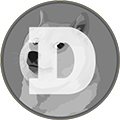
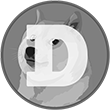
layout changes

diff --git a/css/style.css b/css/style.css
@@ -67,12 +67,19 @@ table { border-collapse: collapse; border-spacing: 0; }
 .bg { min-width: 100%; min-height: 100%; }
 .bg img { display: block; width: 100%; height: 100%; }
 
+/* ==========================================================================
+	#Intro
+========================================================================== */
+.intro { position: relative; z-index: 3; text-align: center; }
+
+.logo { overflow: hidden; display: inline-block; width: 324px; height: 150px; margin-top: 150px; background: url(images/logo.png) 0 0 no-repeat; white-space: nowrap; text-indent: 100%; }
+
+.slogan { padding-top: 80px; font-size: 24px; line-height: 1px; color: #ccc; }
+
 /* =========================================================================
 	#Header
 ========================================================================= */
 .header { overflow: hidden; }
-
-.logo { position: relative; z-index: 3; overflow: hidden; display: block; float: left; width: 86px; height: 40px; margin: 10px 0 0 10px; background: url(images/logo.png) 0 0 no-repeat; white-space: nowrap; text-indent: 100%; }
 
 /* =========================================================================
 	#Main
@@ -91,63 +98,51 @@ table { border-collapse: collapse; border-spacing: 0; }
 ========================================================================== */
 .circles {
 	position: absolute; 
-	top: 50%; 
+	top: 60%; 
 	left: 50%;
 	z-index: 2; 
 	overflow: hidden; 
-	width: 630px; 
-	height: 190px; 
+	width: 790px; 
+	height: 150px; 
 	padding: 20px 0 0 20px; 
-	margin-top: -180px; 
-	margin-left: -310px; 
+	/*margin-top: -55px; */
+	margin-left: -395px; 
 }
 
 .circle {
+	overflow: hidden; 
 	display: block; 
 	float: left;
-	overflow: hidden; 
-	border-radius: 50%; 
-	white-space: nowrap; 
-	text-indent: 100%;  
+	width: 110px; 
+	height: 110px; 
+	border-radius: 50%;
+ 	white-space: nowrap; 
+	text-indent: 100%; 
 }
 
 .circle:hover {
-	box-shadow: 0 0 20px #fff; 
+	/*box-shadow: 0 0 20px #fff; */
+	transition: all 0.5s;
+	transform: rotate(360deg);
 }
 
 .circle + .circle {
-	margin-left: 5px; 
+	margin-left: 50px; 
 }
 
-.circle-doge,
-.circle-ltc { margin-top: 15px; }
-
-.circle-drk,
-.circle-bc { margin-top: 30px; }
-
 .circle-btc {
-	width: 150px; 
-	height: 150px; 
 	background: url(images/btc2.png) 0 0 no-repeat;  
 }
 .circle-doge {
-	width: 120px; 
-	height: 120px; 
 	background: url(images/dgc2.png) 0 0 no-repeat; 
 }
 .circle-ltc {
-	width: 120px; 
-	height: 120px; 
 	background: url(images/ltc2.png) 0 0 no-repeat; 
 }
 .circle-drk {
-	width: 90px; 
-	height: 90px; 
 	background: url(images/drc2.png) 0 0 no-repeat; 
 }
 .circle-bc {
-	width: 90px; 
-	height: 90px; 
 	background: url(images/blc2.png) 0 0 no-repeat; 
 }
 

diff --git a/index.html b/index.html
@@ -13,12 +13,14 @@
 <body>
 <div class="container">
 	<div class="bg">
-		<img src="css/images/bg.jpg" alt="" width="1920" height="1080" />
+		<img src="css/images/bg1.jpg" alt="" width="1920" height="1080" />
 	</div><!-- /.bg -->
 
-	<div class="header">
-		<a href="#" class="logo logo1">Crypto-Guide</a>
-	</div><!-- /.header -->
+	<div class="intro">
+		<a href="#" class="logo">Crypto-Guide</a>
+
+		<p class="slogan">Криптовалутен пътеводите.</p>
+	</div><!-- /.intro -->
 
 	<div class="circles">
 		<a href="#" class="circle circle-drk">Darkcoin</a>
